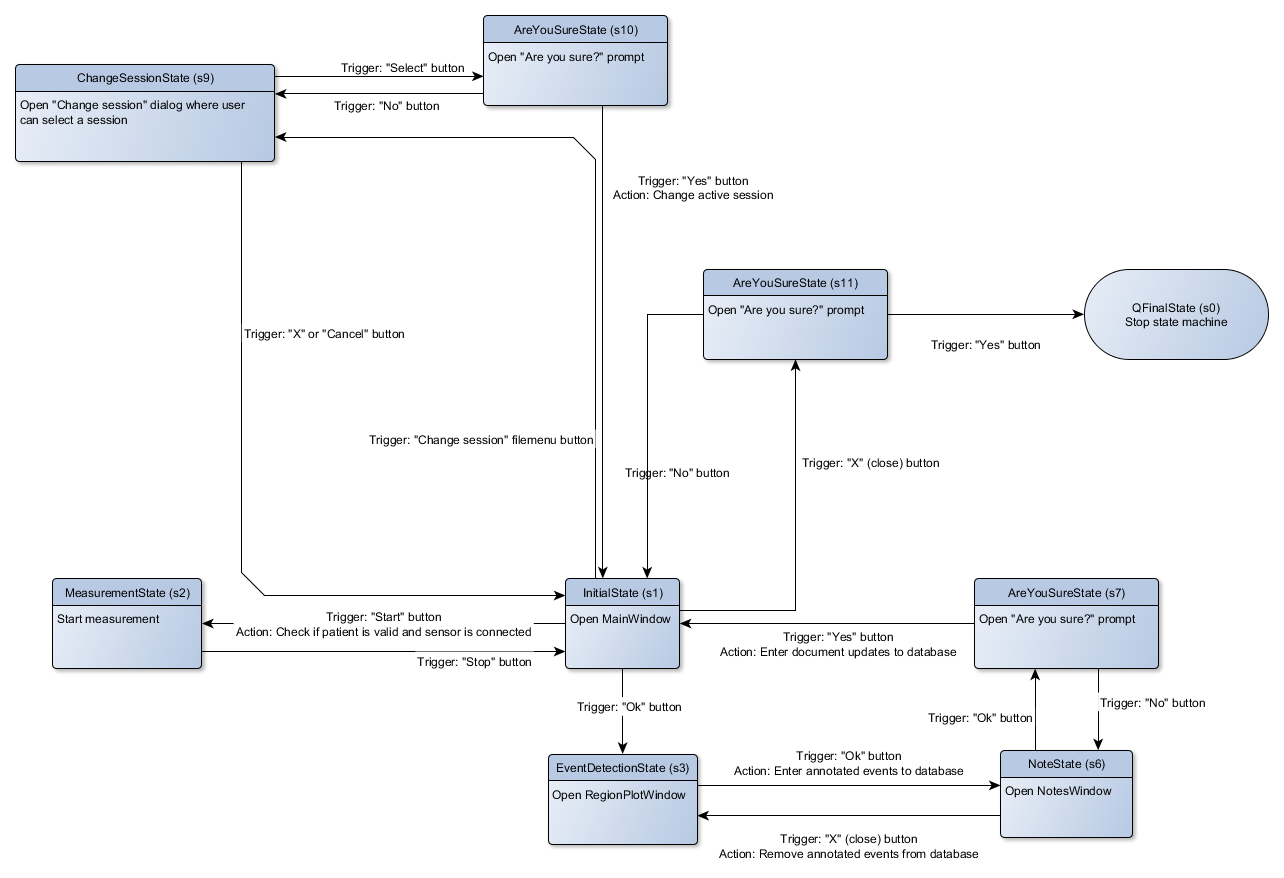
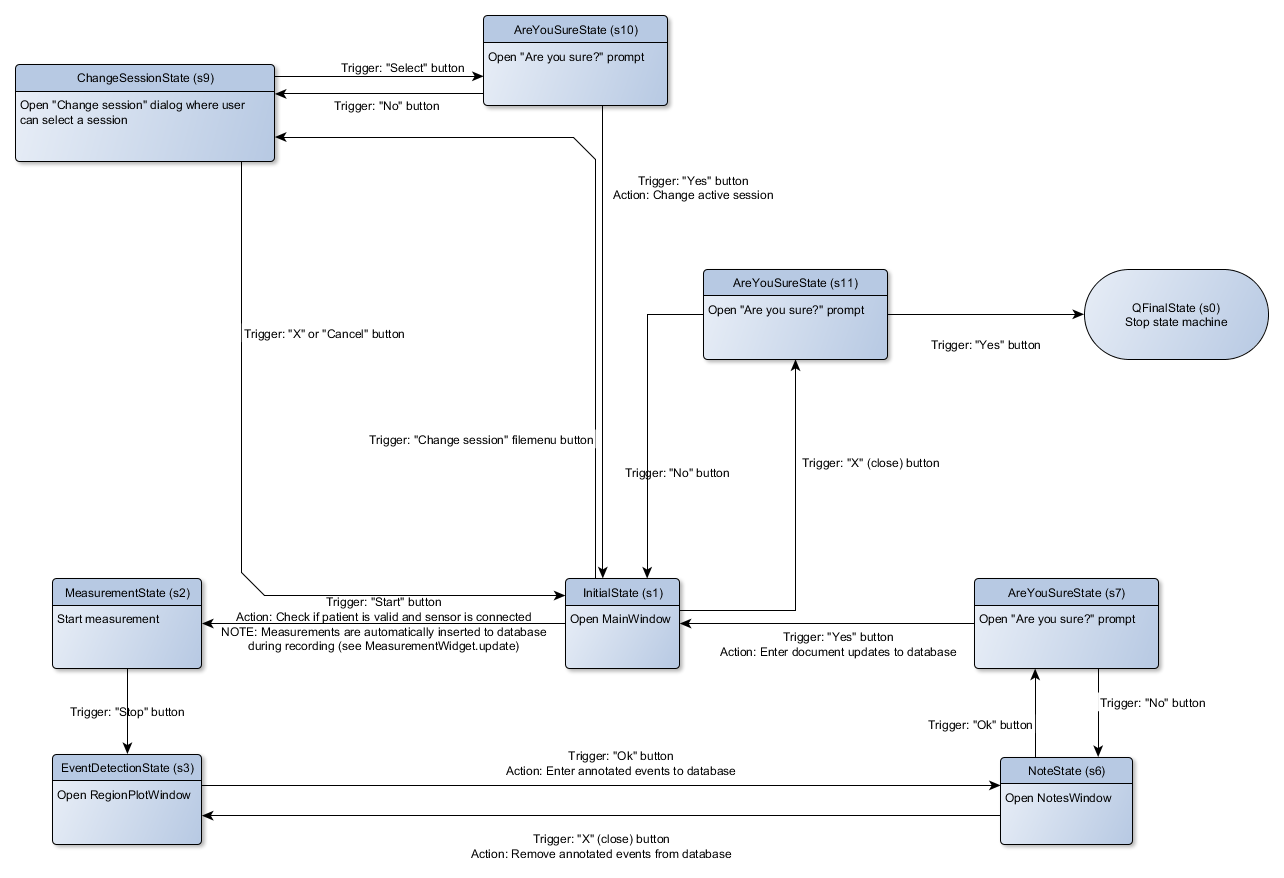
Change EventDetectionState is now triggered by MeasurementState stop (#116)
* Change MeasurementWidget no longer has an "Ok" button
* Update state diagram

diff --git a/cranio/state.py b/cranio/state.py
@@ -1,5 +1,5 @@
 from typing import List
-from PyQt5.QtCore import QStateMachine, QState, QEvent, pyqtSignal, QSignalTransition, QFinalState
+from PyQt5.QtCore import QStateMachine, QState, QEvent, QSignalTransition, QFinalState, pyqtSignal
 from PyQt5.QtWidgets import QMessageBox
 from cranio.app.window import MainWindow, RegionPlotWindow, NotesWindow, SessionDialog
 from cranio.app.widget import SessionWidget
@@ -339,6 +339,8 @@ class UpdateDocumentTransition(QSignalTransition):
 
 
 class MyStateMachine(QStateMachine):
+    # Hidden transition trigger signals for testing purposes
+    _s1_to_s3_signal = pyqtSignal()
 
     def __init__(self):
         super().__init__()
@@ -373,10 +375,10 @@ class MyStateMachine(QStateMachine):
         self.update_document_transition = UpdateDocumentTransition(self.s7.signal_yes)
         self.update_document_transition.setTargetState(self.s1)
         self.transition_map = {self.s1: {self.s2: self.start_measurement_transition,
-                                         self.s3: self.main_window.signal_ok,
                                          self.s9: self.s1.signal_change_session,
+                                         self.s3: self._s1_to_s3_signal,
                                          self.s11: self.main_window.signal_close},
-                               self.s2: {self.s1: self.main_window.signal_stop},
+                               self.s2: {self.s3: self.main_window.signal_stop},
                                self.s3: {self.s6: self.enter_annotated_events_transition},
                                self.s6: {self.s7: self.s6.signal_ok, self.s3: self.remove_annotated_events_transition},
                                self.s7: {self.s6: self.s7.signal_no, self.s1: self.update_document_transition},

diff --git a/test/test_state_machine.py b/test/test_state_machine.py
@@ -119,8 +119,8 @@ def test_event_detection_state_flow(machine, qtbot):
     time_s = list(range(n))
     torque_Nm = list(range(n))
     insert_time_series_to_database(time_s, torque_Nm, machine.document)
-    # Trigger transition from s1 to s3 (EventDetectionState)
-    machine.transition_map[machine.s1][machine.s3].emit()
+    # Trigger hidden transition from s1 to s3 (EventDetectionState)
+    machine._s1_to_s3_signal.emit()
     app.processEvents()
     # Note that regions (sensor_info.turns_in_full_turn) are created on state entry
     region_count = machine.s3.region_count()
@@ -278,12 +278,12 @@ def test_state_machine_change_session_widget_clicking_x_in_top_right_equals_to_c
 
 
 def test_press_enter_in_initial_state_is_start_and_enter_in_measurement_state_is_stop(qtbot, machine):
-    # Run two loops to verify same behavior when coming back to initial state from measurement state
-    for _ in range(2):
-        with qtbot.waitSignal(machine.main_window.signal_start):
-            qtbot.keyPress(machine.main_window.measurement_widget.start_button, Qt.Key_Enter)
-        with qtbot.waitSignal(machine.main_window.signal_stop):
-            qtbot.keyPress(machine.main_window.measurement_widget.stop_button, Qt.Key_Enter)
+    with qtbot.waitSignal(machine.main_window.signal_start):
+        qtbot.keyPress(machine.main_window.measurement_widget.start_button, Qt.Key_Enter)
+    assert machine.in_state(machine.s2)
+    with qtbot.waitSignal(machine.main_window.signal_stop):
+        qtbot.keyPress(machine.main_window.measurement_widget.stop_button, Qt.Key_Enter)
+    assert machine.in_state(machine.s3)
 
 
 def test_click_close_in_main_window_prompts_verification_from_user(machine):

diff --git a/cranio/app/widget.py b/cranio/app/widget.py
@@ -530,7 +530,6 @@ class MeasurementWidget(QWidget):
         self.plot_layout = QHBoxLayout()
         self.start_stop_layout = QVBoxLayout()
         self.multiplot_widget = VMultiPlotWidget()
-        self.ok_button = QPushButton('Ok')
         self.start_button = QPushButton('Start')
         self.stop_button = QPushButton('Stop')
         self.update_timer = QtCore.QTimer()
@@ -548,7 +547,6 @@ class MeasurementWidget(QWidget):
         self.start_stop_layout.addWidget(self.start_button)
         self.start_stop_layout.addWidget(self.stop_button)
         self.main_layout.addLayout(self.plot_layout)
-        self.main_layout.addWidget(self.ok_button)
         self.setLayout(self.main_layout)
         # connect signals
         self.update_timer.timeout.connect(self.update)

diff --git a/cranio/app/window.py b/cranio/app/window.py
@@ -236,7 +236,6 @@ class MainWindow(QMainWindow):
         # Define signals
         self.signal_start = self.measurement_widget.start_button.clicked
         self.signal_stop = self.measurement_widget.stop_button.clicked
-        self.signal_ok = self.measurement_widget.ok_button.clicked
         self.signal_change_session = self.change_session_action.triggered
         self.init_ui()
 
